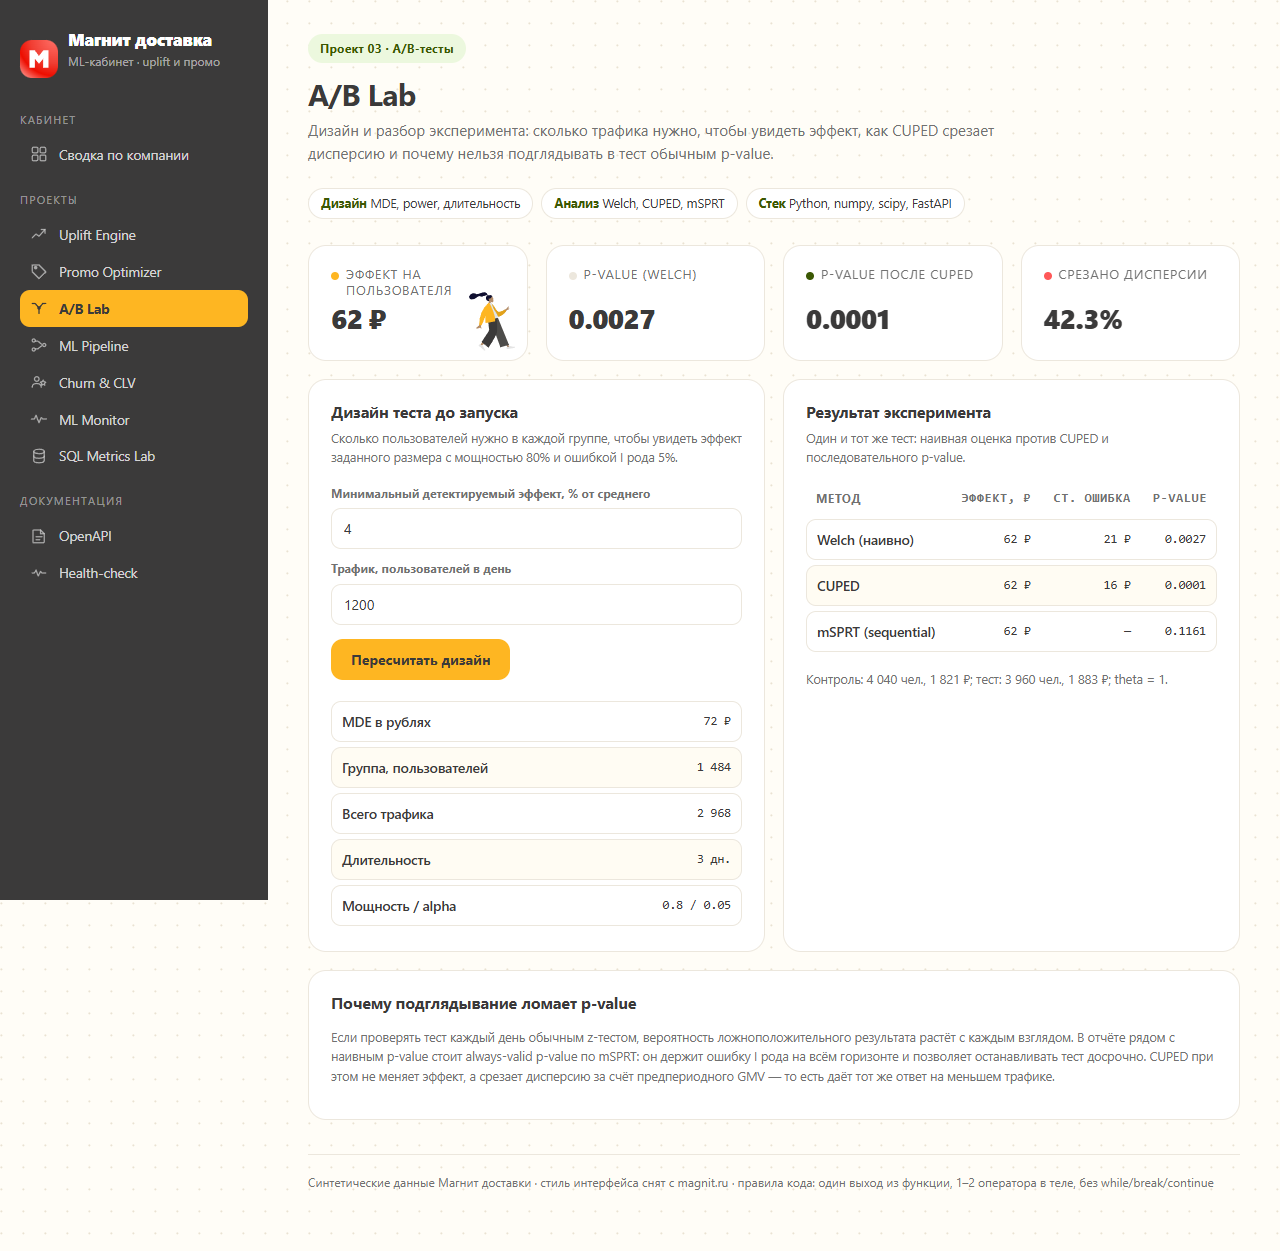
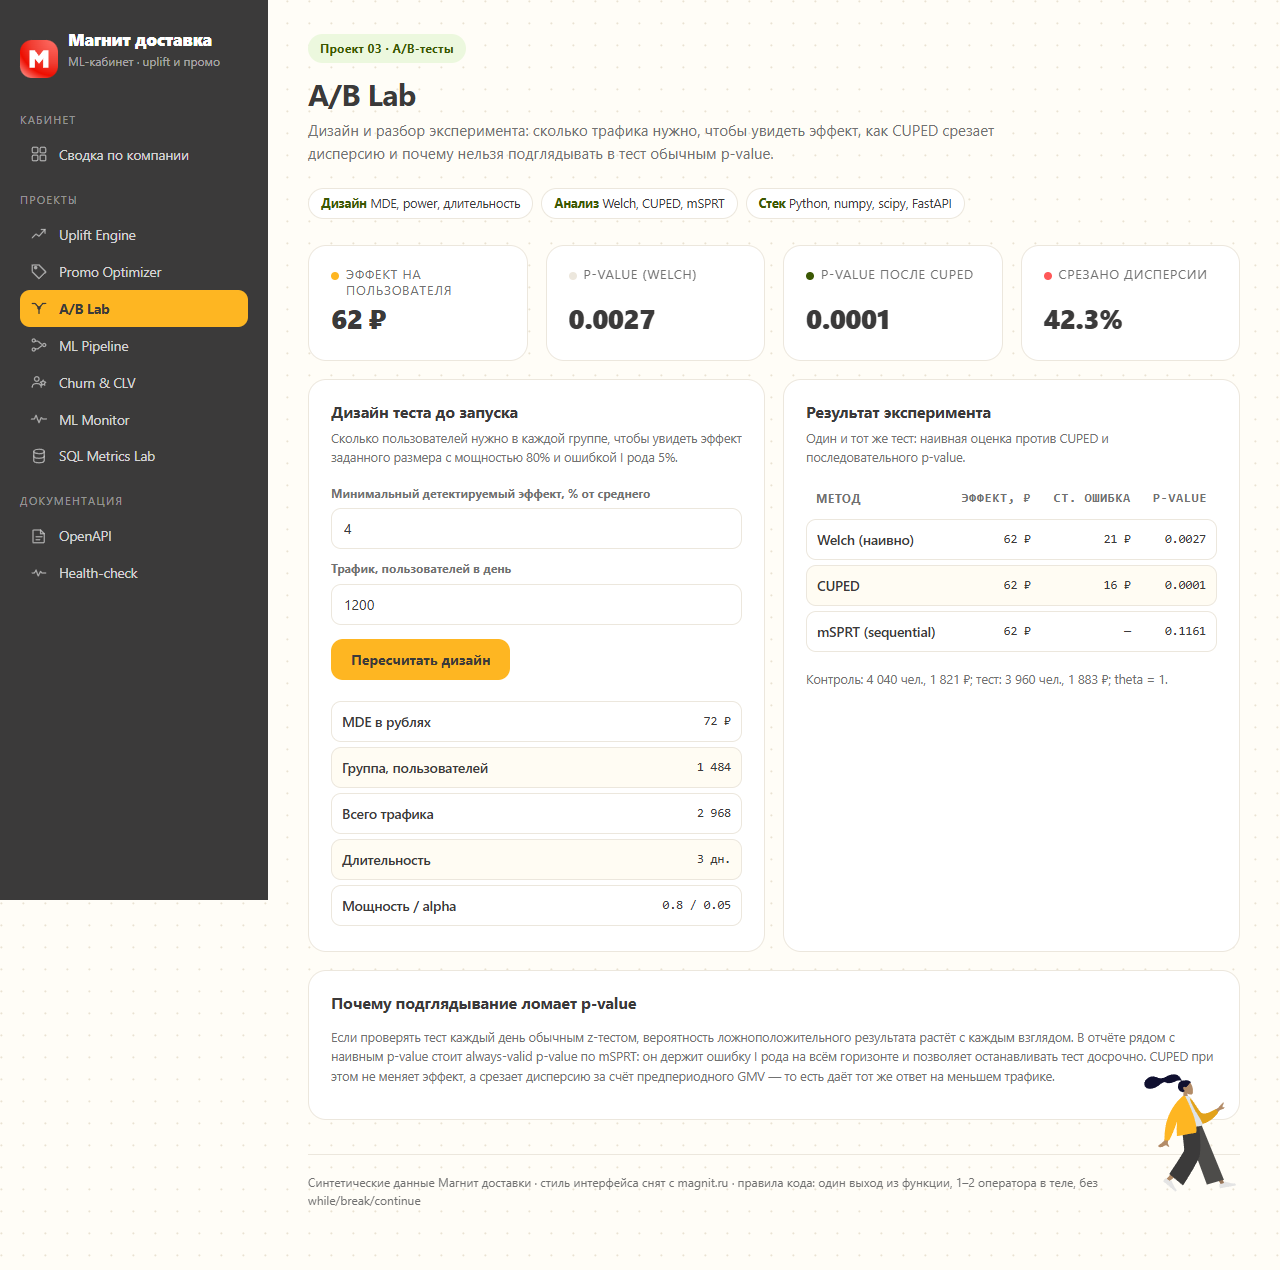
style(layout): move Magnit employee from KPI tile to footer corner

diff --git a/shared/assets/tokens.css b/shared/assets/tokens.css
@@ -138,11 +138,12 @@ h1 { font-size: 30px; line-height: 1.15; margin: 14px 0 8px; letter-spacing: -0.
 .kpi.accent .label::before { background: var(--m-yellow); }
 .kpi.good .label::before { background: var(--m-green); }
 .kpi.alert .label::before { background: var(--m-coral); }
-.card.kpi.accent { position: relative; overflow: hidden; padding-right: 66px; }
-.card.kpi.accent::after {
-  content: ""; position: absolute; right: 12px; bottom: 8px; width: 46px; height: 62px;
-  pointer-events: none; background: url("img/staff-magnit-1.svg") center / contain no-repeat;
+footer { position: relative; padding-right: 120px; }
+.page-mascot {
+  position: absolute; right: 4px; bottom: 18px; width: 92px; height: 126px;
+  pointer-events: none; background: url("img/staff-magnit-1.svg") bottom right / contain no-repeat;
 }
+@media (max-width: 760px) { .page-mascot { width: 64px; height: 88px; } }
 
 
 

diff --git a/shared/templates/base.html b/shared/templates/base.html
@@ -61,6 +61,7 @@
     <footer>
       Синтетические данные Магнит доставки · стиль интерфейса снят с magnit.ru ·
       правила кода: один выход из функции, 1–2 оператора в теле, без while/break/continue
+      <div class="page-mascot" aria-hidden="true"></div>
     </footer>
   </main>
 </div>
